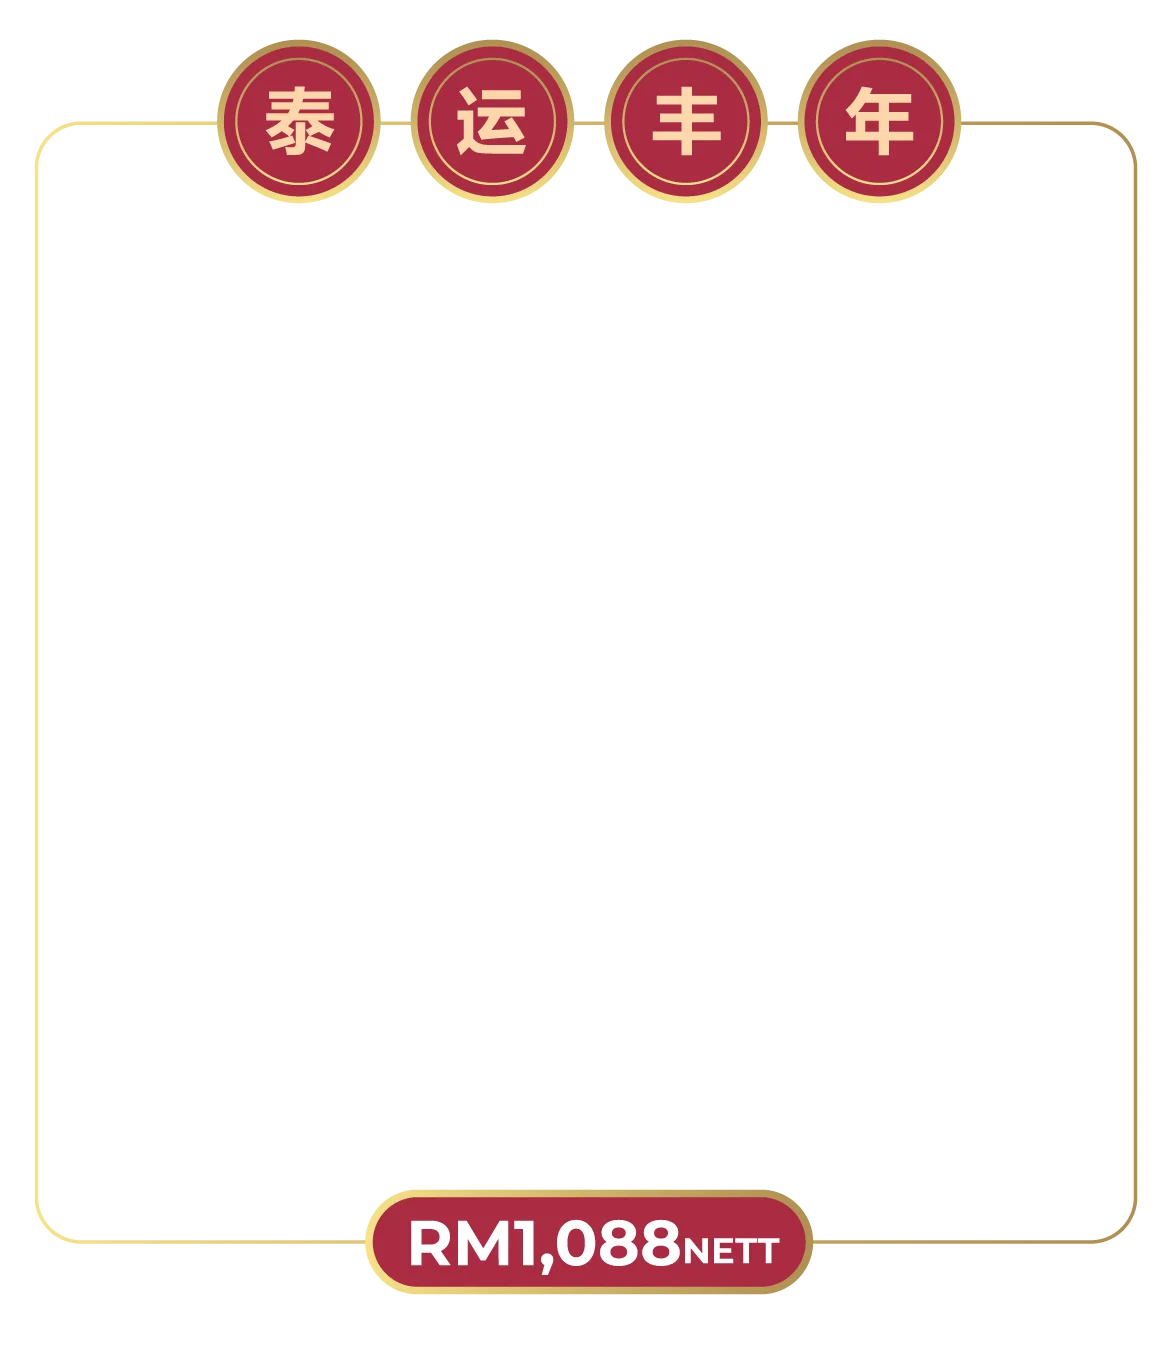
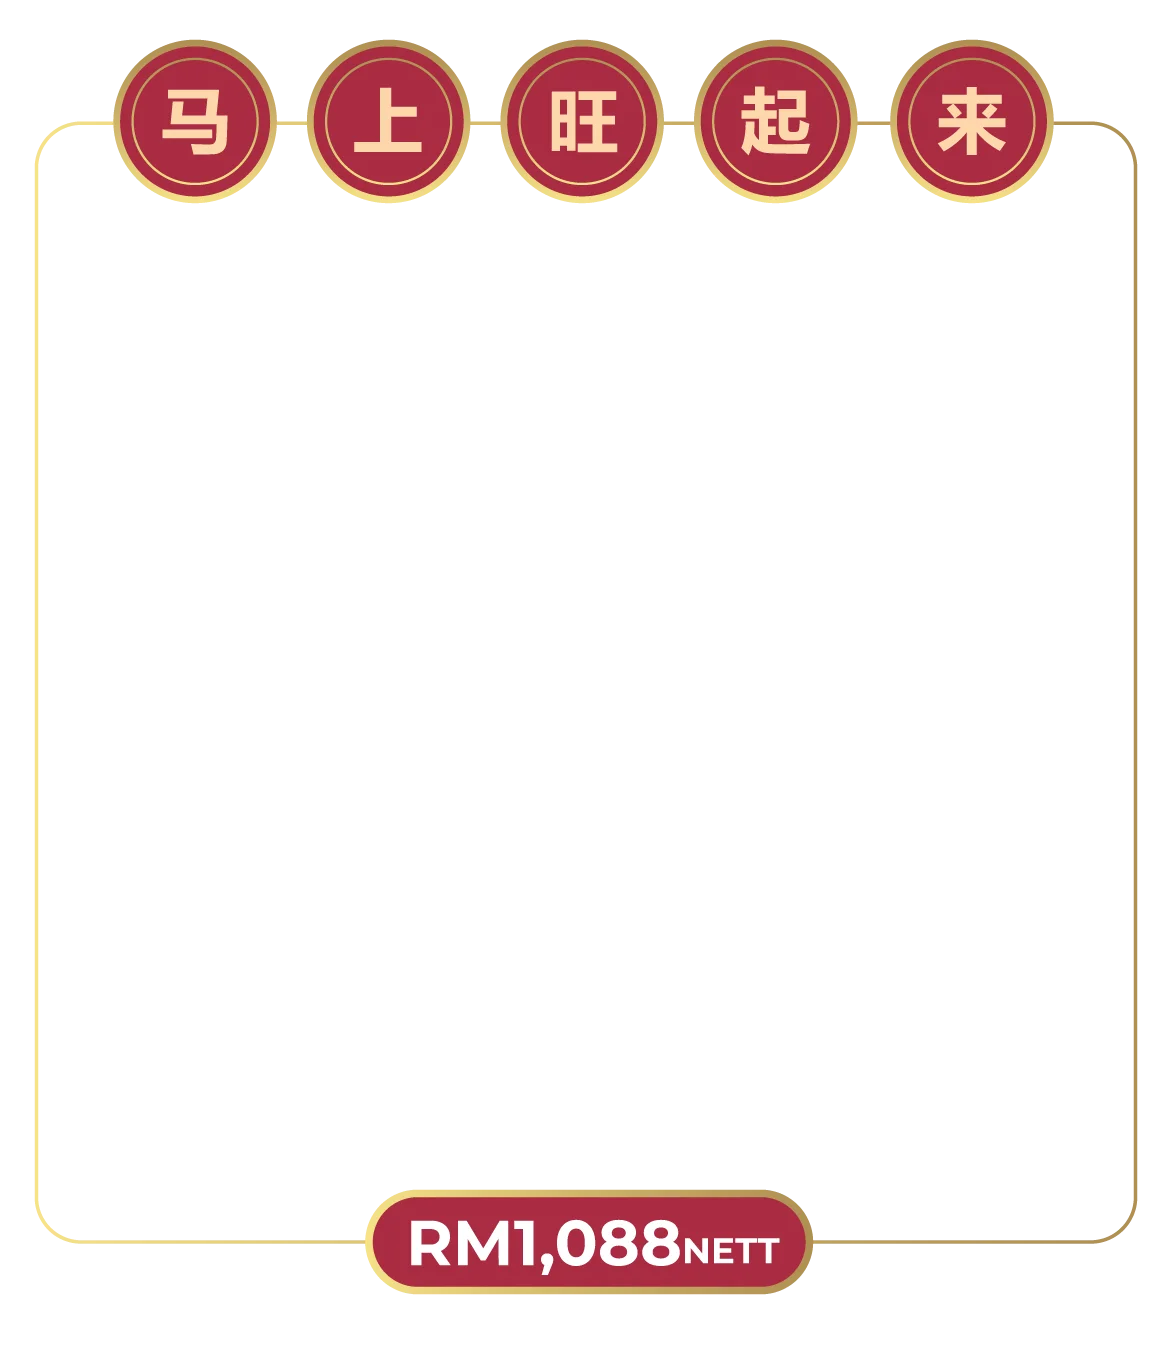
u

Changed region(s): [[0.0922, 0.031, 0.9215, 0.1551]]

diff --git a/pages/CNY.vue b/pages/CNY.vue
@@ -39,7 +39,7 @@
       <div class="relative max-w-[40rem] mx-auto">
         <img src="../assets/images/cny/CNY-ELEMENTS-09.webp" alt="Menu Items" class="w-full" />
         <div class="px-6 py-16 absolute top-2 sm:top-16 left-2 right-0 mx-auto">
-          <h3 class="text-center sm:text-xl uppercase text-white montserrat mb-2 sm:mb-5 font-[600]">Set A (8-10 Pax)</h3>
+          <h3 class="text-center sm:text-xl uppercase text-white montserrat mb-2 sm:mb-5 font-[600]">Set A (8-10 Pax) - 马上旺起来</h3>
           <!-- Menu Items Grid -->
           <div class="grid grid-cols-2 gap-0 sm:gap-2 sm:px-5">
             <!-- Left Column -->
@@ -47,7 +47,7 @@
               <div class="cny-menu-item-new">
                 <span class="cny-menu-number-new">1</span>
                 <div class="cny-menu-text-new">
-                  <div class="cny-menu-chinese">越撑越旺好年年</div>
+                  <div class="cny-menu-chinese">越捞越旺好年年</div>
                   <div class="cny-menu-english">Prosperity Yu Sang</div>
                 </div>
               </div>
@@ -68,7 +68,7 @@
               <div class="cny-menu-item-new">
                 <span class="cny-menu-number-new">4</span>
                 <div class="cny-menu-text-new">
-                  <div class="cny-menu-chinese">鸡运叠香黄金蛋</div>
+                  <div class="cny-menu-chinese">鸿运叠香黄金蛋</div>
                   <div class="cny-menu-english">Golden Fortune Omelette</div>
                 </div>
               </div>
@@ -82,7 +82,7 @@
               <div class="cny-menu-item-new">
                 <span class="cny-menu-number-new">6</span>
                 <div class="cny-menu-text-new">
-                  <div class="cny-menu-chinese">骏马齐腾猪脚宝</div>
+                  <div class="cny-menu-chinese">骏马齐腾卤猪脚</div>
                   <div class="cny-menu-english">Braised Pork Leg</div>
                 </div>
               </div>
@@ -100,7 +100,7 @@
               <div class="cny-menu-item-new">
                 <span class="cny-menu-number-new">8</span>
                 <div class="cny-menu-text-new">
-                  <div class="cny-menu-chinese">一马当先打炒猪</div>
+                  <div class="cny-menu-chinese">一马当先打抛猪</div>
                   <div class="cny-menu-english">Stir Fried Thai Basil Pork</div>
                 </div>
               </div>
@@ -114,7 +114,7 @@
               <div class="cny-menu-item-new">
                 <span class="cny-menu-number-new">10</span>
                 <div class="cny-menu-text-new">
-                  <div class="cny-menu-chinese">瑞气盘门冬荫功</div>
+                  <div class="cny-menu-chinese">瑞气盈门冬荫功</div>
                   <div class="cny-menu-english">Red Tomyam Soup Seafood</div>
                 </div>
               </div>
@@ -129,7 +129,7 @@
                 <span class="cny-menu-number-new">12</span>
                 <div class="cny-menu-text-new">
                   <div class="cny-menu-chinese">五谷丰登白米饭</div>
-                  <div class="cny-menu-english">White Rice</div>
+                  <div class="cny-menu-english">White Rice (10)</div>
                 </div>
               </div>
             </div>
@@ -140,7 +140,7 @@
       <div class="relative max-w-[40rem] mx-auto">
         <img src="../assets/images/cny/CNY-ELEMENTS-10.webp" alt="Menu Items" class="w-full" />
         <div class="px-6 py-16 absolute top-1 sm:top-14 left-2 right-0 mx-auto">
-          <h3 class="text-center sm:text-xl uppercase text-white montserrat mb-2 sm:mb-5 font-[600]">Set B (12-15 Pax)</h3>
+          <h3 class="text-center sm:text-xl uppercase text-white montserrat mb-2 sm:mb-5 font-[600]">Set B (11-15 Pax) - 泰旺一整年</h3>
           <!-- Menu Items Grid -->
           <div class="grid grid-cols-2 gap-0 sm:gap-2 sm:px-5">
             <!-- Left Column -->
@@ -148,7 +148,7 @@
               <div class="cny-menu-item-new">
                 <span class="cny-menu-number-new">1</span>
                 <div class="cny-menu-text-new">
-                  <div class="cny-menu-chinese">越揚越旺好年年</div>
+                  <div class="cny-menu-chinese">越捞越旺好年年</div>
                   <div class="cny-menu-english">Prosperity Yu Sang</div>
                 </div>
               </div>
@@ -162,14 +162,14 @@
               <div class="cny-menu-item-new">
                 <span class="cny-menu-number-new">3</span>
                 <div class="cny-menu-text-new">
-                  <div class="cny-menu-chinese">脆香苏东贵新岁</div>
+                  <div class="cny-menu-chinese">脆香苏东贺新岁</div>
                   <div class="cny-menu-english">Crispy Cereal Calamari</div>
                 </div>
               </div>
               <div class="cny-menu-item-new">
                 <span class="cny-menu-number-new">4</span>
                 <div class="cny-menu-text-new">
-                  <div class="cny-menu-chinese">鸡运叠香黄金蛋</div>
+                  <div class="cny-menu-chinese">鸿运叠香黄金蛋</div>
                   <div class="cny-menu-english">Golden Fortune Omelette</div>
                 </div>
               </div>
@@ -183,7 +183,7 @@
               <div class="cny-menu-item-new">
                 <span class="cny-menu-number-new">6</span>
                 <div class="cny-menu-text-new">
-                  <div class="cny-menu-chinese">骏马齐腾猪脚宝</div>
+                  <div class="cny-menu-chinese">骏马齐腾卤猪脚</div>
                   <div class="cny-menu-english">Braised Pork Leg</div>
                 </div>
               </div>
@@ -197,7 +197,7 @@
               <div class="cny-menu-item-new">
                 <span class="cny-menu-number-new">8</span>
                 <div class="cny-menu-text-new">
-                  <div class="cny-menu-chinese">一马当先打掉猪</div>
+                  <div class="cny-menu-chinese">一马当先打抛猪</div>
                   <div class="cny-menu-english">Stir Fried Thai Basil Pork</div>
                 </div>
               </div>
@@ -222,7 +222,7 @@
               <div class="cny-menu-item-new">
                 <span class="cny-menu-number-new">11</span>
                 <div class="cny-menu-text-new">
-                  <div class="cny-menu-chinese">瑞气盘门冬荷功</div>
+                  <div class="cny-menu-chinese">瑞气盈门冬荫功</div>
                   <div class="cny-menu-english">Red Tomyam Soup Seafood</div>
                 </div>
               </div>
@@ -236,7 +236,7 @@
               <div class="cny-menu-item-new">
                 <span class="cny-menu-number-new">13</span>
                 <div class="cny-menu-text-new">
-                  <div class="cny-menu-chinese">福运连绵海鲜煲</div>
+                  <div class="cny-menu-chinese">金满堂咖喱海鲜</div>
                   <div class="cny-menu-english">Stir Fried Seafood with Curry Powder</div>
                 </div>
               </div>
@@ -244,14 +244,14 @@
                 <span class="cny-menu-number-new">14</span>
                 <div class="cny-menu-text-new">
                   <div class="cny-menu-chinese">甜蜜团圆桂圆甜</div>
-                  <div class="cny-menu-english">Dessert Longan</div>
+                  <div class="cny-menu-english">Dessert Longan (15)</div>
                 </div>
               </div>
               <div class="cny-menu-item-new">
                 <span class="cny-menu-number-new">15</span>
                 <div class="cny-menu-text-new">
                   <div class="cny-menu-chinese">五谷丰登白米饭</div>
-                  <div class="cny-menu-english">White Rice</div>
+                  <div class="cny-menu-english">White Rice (15)</div>
                 </div>
               </div>
             </div>
@@ -273,7 +273,7 @@
             >
             <div class="absolute bottom-[.8rem] sm:bottom-[1.4rem] w-full text-center text-white montserrat">
               <h3 class="mb-1 text-sm sm:text-xl font-bold">喜气洋洋猪肉串</h3>
-              <p class="m-0 text-[.7rem] sm:text-base text-[#601300] font-[600]">BBQ Pork Sticks</p>
+              <p class="m-0 text-[.7rem] sm:text-[0.8rem] text-[#601300] font-[600] mb-1">BBQ Pork Sticks</p>
             </div>
           </div>
           <div class="relative">
@@ -283,8 +283,8 @@
               class="w-full"
             >
             <div class="absolute bottom-[.8rem] sm:bottom-[1.4rem] w-full text-center text-white montserrat">
-              <h3 class="mb-1 text-sm sm:text-xl font-bold">鲜虾冬荫功</h3>
-              <p class="m-0 text-[.7rem] sm:text-base text-[#601300] font-[600]">Tom Yum Seafood Soup</p>
+              <h3 class="mb-1 text-sm sm:text-xl font-bold">瑞气盈门冬荫功</h3>
+              <p class="m-0 text-[.7rem] sm:text-[0.8rem] text-[#601300] font-[600] mb-1">Red Tomyam Soup Seafood</p>
             </div>
           </div>
           <div class="relative">
@@ -294,8 +294,8 @@
               class="w-full"
             >
             <div class="absolute bottom-[.6rem] sm:bottom-[1.2rem] w-full text-center text-white montserrat">
-              <h3 class="mb-1 text-sm sm:text-xl font-bold">富贵炒芥兰</h3>
-              <p class="m-0 text-[.7rem] sm:text-base text-[#601300] font-[600]">Stir Fried Gai Lan</p>
+              <h3 class="mb-1 text-sm sm:text-xl font-bold">富贵吉祥炒芥兰</h3>
+              <p class="m-0 text-[.7rem] sm:text-[0.8rem] text-[#601300] font-[600] mb-1">Hong Kong Gai Lan</p>
             </div>
           </div>
           <div class="relative">
@@ -305,8 +305,8 @@
               class="w-full"
             >
             <div class="absolute bottom-[.6rem] sm:bottom-[1.2rem] w-full text-center text-white montserrat">
-              <h3 class="mb-1 text-sm sm:text-xl font-bold">传统糯米鸡</h3>
-              <p class="m-0 text-[.7rem] sm:text-base text-[#601300] font-[600]">Sticky Rice Chicken</p>
+              <h3 class="mb-1 text-sm sm:text-xl font-bold">龙马精神香兰鸡</h3>
+              <p class="m-0 text-[.7rem] sm:text-[0.8rem] text-[#601300] font-[600] mb-1">Deep Fried Pandan Chicken</p>
             </div>
           </div>
           <div class="relative">
@@ -316,8 +316,8 @@
               class="w-full"
             >
             <div class="absolute bottom-[.8rem] sm:bottom-[1.4rem] w-full text-center text-white montserrat">
-              <h3 class="mb-1 text-sm sm:text-xl font-bold">越撑越旺好年年</h3>
-              <p class="m-0 text-[.7rem] sm:text-base text-[#601300] font-[600]">Prosperity Yu Sang</p>
+              <h3 class="mb-1 text-sm sm:text-xl font-bold">越捞越旺好年年</h3>
+              <p class="m-0 text-[.7rem] sm:text-[0.8rem] text-[#601300] font-[600] mb-1">Prosperity Yu Sang</p>
             </div>
           </div>
           <div class="relative">
@@ -327,8 +327,8 @@
               class="w-full"
             >
             <div class="absolute bottom-[.8rem] sm:bottom-[1.4rem] w-full text-center text-white montserrat">
-              <h3 class="mb-1 text-sm sm:text-xl font-bold">一马当先打炒猪</h3>
-              <p class="m-0 text-[.7rem] sm:text-base text-[#601300] font-[600]">Stir Fried Thai Basil Pork</p>
+              <h3 class="mb-1 text-sm sm:text-xl font-bold">一马当先打抛猪</h3>
+              <p class="m-0 text-[.7rem] sm:text-[0.8rem] text-[#601300] font-[600] mb-1">Stir Fried Thai Basil Pork</p>
             </div>
           </div>
           <div class="relative">
@@ -338,8 +338,8 @@
               class="w-full"
             >
             <div class="absolute bottom-[.8rem] sm:bottom-[1.4rem] w-full text-center text-white montserrat">
-              <h3 class="mb-1 text-sm sm:text-xl font-bold">脆香苏东贺新岁</h3>
-              <p class="m-0 text-[.7rem] sm:text-base text-[#601300] font-[600]">Crispy Cereal Calamari</p>
+              <h3 class="mb-1 text-sm sm:text-xl font-bold">金满堂咖喱海鲜</h3>
+              <p class="m-0 text-[.7rem] sm:text-[0.8rem] text-[#601300] font-[600] mt-[.55rem]">Stir Fried Seafood with Curry Powder</p>
             </div>
           </div>
           <div class="relative">
@@ -349,8 +349,8 @@
               class="w-full"
             >
             <div class="absolute bottom-[.6rem] sm:bottom-[1.2rem] w-full text-center text-white montserrat">
-              <h3 class="mb-1 text-sm sm:text-xl font-bold">五福临门红烧肉</h3>
-              <p class="m-0 text-[.7rem] sm:text-base text-[#601300] font-[600]">Five Blessings Red Pork</p>
+              <h3 class="mb-1 text-sm sm:text-xl font-bold">骏马齐腾卤猪脚</h3>
+              <p class="m-0 text-[.7rem] sm:text-[0.8rem] text-[#601300] font-[600] mb-1">Braised Pork Leg</p>
             </div>
           </div>
           <div class="relative">
@@ -360,8 +360,8 @@
               class="w-full"
             >
             <div class="absolute bottom-[.8rem] sm:bottom-[1.4rem] w-full text-center text-white montserrat">
-              <h3 class="mb-1 text-sm sm:text-xl font-bold">年年有鱼咖喱鱼</h3>
-              <p class="m-0 text-[.7rem] sm:text-base text-[#601300] font-[600]">Abundance Curry Fish</p>
+              <h3 class="mb-1 text-sm sm:text-xl font-bold">马上有余福满堂</h3>
+              <p class="m-0 text-[.7rem] sm:text-[0.8rem] text-[#601300] font-[600] mb-1">Prosperous Nyonya Fish</p>
             </div>
           </div>
           <div class="relative">
@@ -371,8 +371,8 @@
               class="w-full"
             >
             <div class="absolute bottom-[.8rem] sm:bottom-[1.4rem] w-full text-center text-white montserrat">
-              <h3 class="mb-1 text-sm sm:text-xl font-bold">黄金爽脆鱿鱼圈</h3>
-              <p class="m-0 text-[.7rem] sm:text-base text-[#601300] font-[600]">Golden Crispy Squid Rings</p>
+              <h3 class="mb-1 text-sm sm:text-xl font-bold">脆香苏东贺新岁</h3>
+              <p class="m-0 text-[.7rem] sm:text-[0.8rem] text-[#601300] font-[600] mb-1">Crispy Cereal Calamari</p>
             </div>
           </div>
           <div class="relative">
@@ -382,8 +382,8 @@
               class="w-full"
             >
             <div class="absolute bottom-[.8rem] sm:bottom-[1.4rem] w-full text-center text-white montserrat">
-              <h3 class="mb-1 text-sm sm:text-xl font-bold">春风得意炒通菜</h3>
-              <p class="m-0 text-[.7rem] sm:text-base text-[#601300] font-[600]">Stir Fried Water Spinach</p>
+              <h3 class="mb-1 text-sm sm:text-xl font-bold">鸿运叠香黄金蛋</h3>
+              <p class="m-0 text-[.7rem] sm:text-[0.8rem] text-[#601300] font-[600] mb-1">Golden Fortune Omelette</p>
             </div>
           </div>
           <div class="relative">
@@ -394,7 +394,7 @@
             >
             <div class="absolute bottom-[.55rem] sm:bottom-[1.1rem] w-full text-center text-white montserrat">
               <h3 class="mb-1 text-sm sm:text-xl font-bold">五福临门木瓜财</h3>
-              <p class="m-0 text-[.7rem] sm:text-base text-[#601300] font-[600]">Five Blessings Papaya Salad</p>
+              <p class="m-0 text-[.7rem] sm:text-[0.8rem] text-[#601300] font-[600] mb-1">Papaya Salad</p>
             </div>
           </div>
           <div class="relative">
@@ -404,8 +404,8 @@
               class="w-full"
             >
             <div class="absolute bottom-[.8rem] sm:bottom-[1.4rem] w-full text-center text-white montserrat">
-              <h3 class="mb-1 text-sm sm:text-xl font-bold">鸡运叠香黄金蛋</h3>
-              <p class="m-0 text-[.7rem] sm:text-base text-[#601300] font-[600]">Golden Fortune Omelette</p>
+              <h3 class="mb-1 text-sm sm:text-xl font-bold">春风得意炒通菜</h3>
+              <p class="m-0 text-[.7rem] sm:text-[0.8rem] text-[#601300] font-[600] mb-1">Stir Fried Water Spinach Thai Style</p>
             </div>
           </div>
           <div class="relative">
@@ -416,7 +416,7 @@
             >
             <div class="absolute bottom-[.8rem] sm:bottom-[1.4rem] w-full text-center text-white montserrat">
               <h3 class="mb-1 text-sm sm:text-xl font-bold">甜蜜团圆桂圆甜</h3>
-              <p class="m-0 text-[.7rem] sm:text-base text-[#601300] font-[600]">Dessert Longan</p>
+              <p class="m-0 text-[.7rem] sm:text-[0.8rem] text-[#601300] font-[600] mb-1">Dessert Longan</p>
             </div>
           </div>
         </div>
@@ -447,7 +447,7 @@
             </a>
 
             <!-- Full Menu -->
-            <a href="https://bit.ly/BTwebOO" @click.once="handleViewMenu" target="_blank" class="col-span-2 flex justify-center cursor-pointer">
+            <a href="https://bit.ly/bt2cnywebmenu" @click.once="handleViewMenu" target="_blank" class="col-span-2 flex justify-center cursor-pointer">
               <div class="relative w-full sm:w-1/2">
                 <img
                   src="../assets/images/cny/CNY-ELEMENTS-13.webp"
